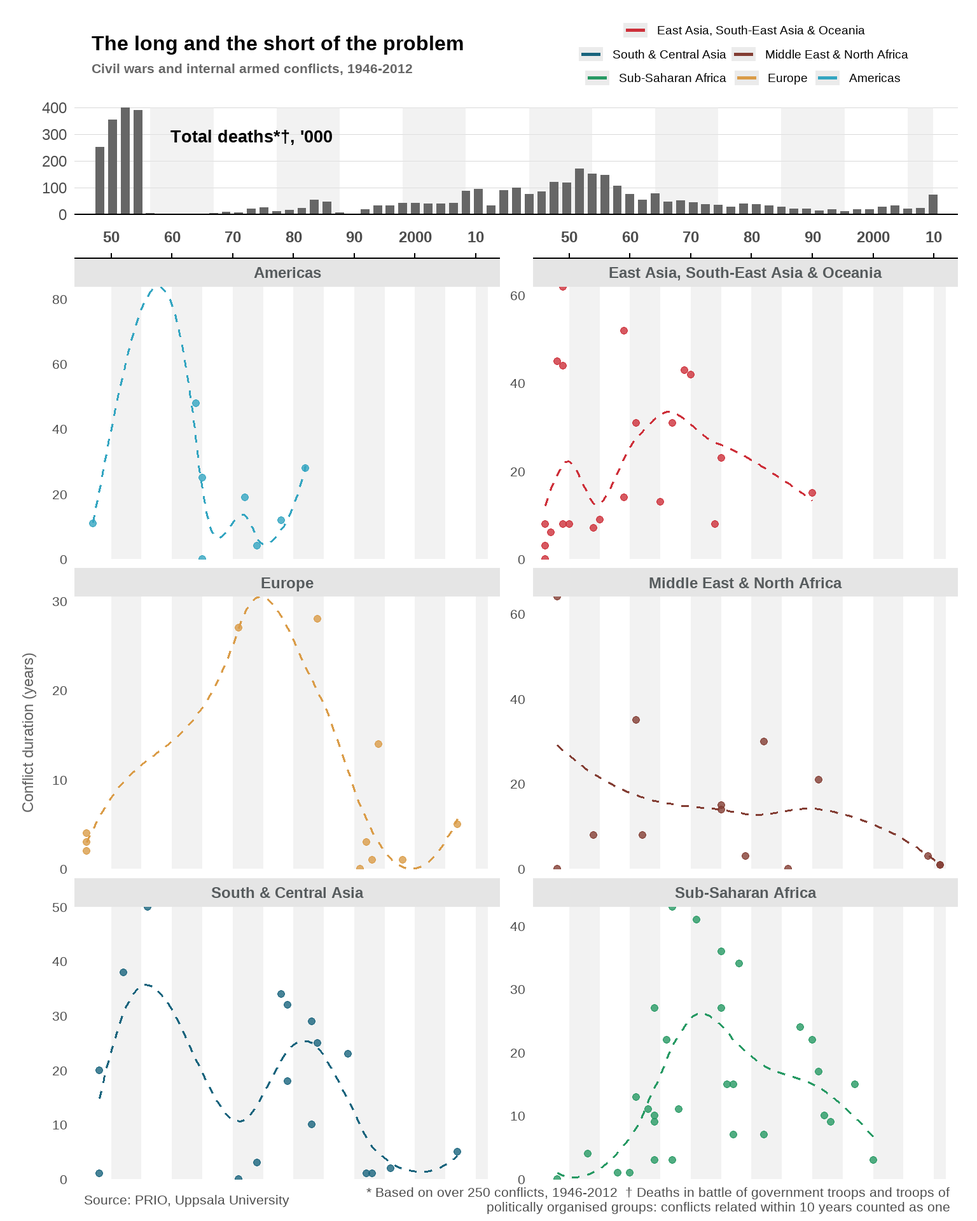
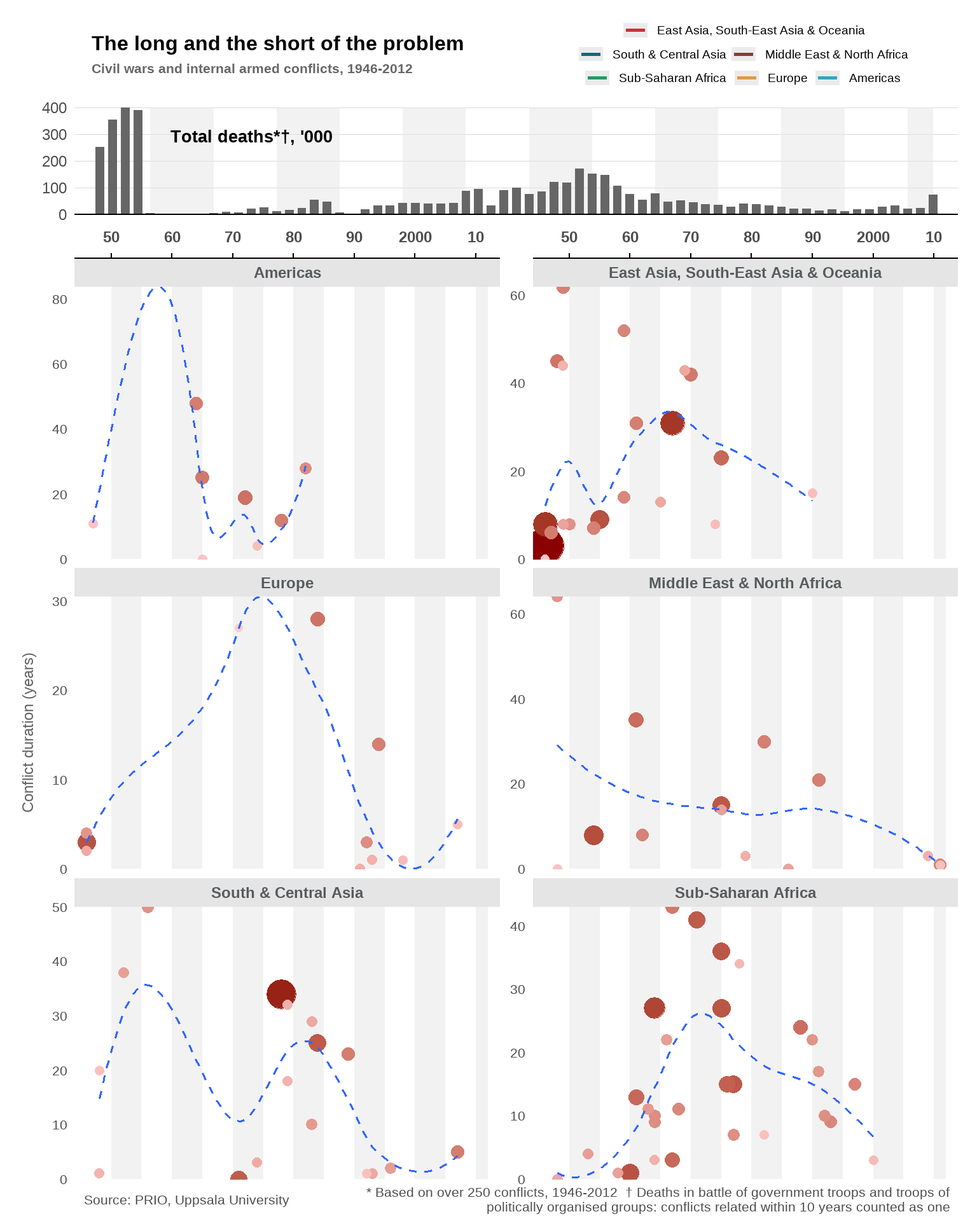
Added new suggestion for improvement

diff --git a/_projects/2025/100570811/100570811.html b/_projects/2025/100570811/100570811.html
@@ -95,8 +95,8 @@ code span.wa { color: #5e5e5e; font-style: italic; } /* Warning */
 
 
   <!--  https://schema.org/Article -->
-  <meta property="article:published" itemprop="datePublished" content="2025-12-15"/>
-  <meta property="article:created" itemprop="dateCreated" content="2025-12-15"/>
+  <meta property="article:published" itemprop="datePublished" content="2025-12-16"/>
+  <meta property="article:created" itemprop="dateCreated" content="2025-12-16"/>
   <meta name="article:author" content="Tone Varberg Sabri"/>
 
   <!--  https://developers.facebook.com/docs/sharing/webmasters#markup -->
@@ -114,12 +114,12 @@ code span.wa { color: #5e5e5e; font-style: italic; } /* Warning */
   <!--radix_placeholder_rmarkdown_metadata-->
 
   <script type="text/json" id="radix-rmarkdown-metadata">
-  {"type":"list","attributes":{"names":{"type":"character","attributes":{},"value":["title","description","categories","author","date","output"]}},"value":[{"type":"character","attributes":{},"value":["The long and the short of the problem"]},{"type":"character","attributes":{},"value":["Replication and improvement of the Economist's \ngraph on civil wars and internal armed conflicts from 1946 to 2012.\n"]},{"type":"character","attributes":{},"value":["2025"]},{"type":"list","attributes":{},"value":[{"type":"list","attributes":{"names":{"type":"character","attributes":{},"value":["name"]}},"value":[{"type":"character","attributes":{},"value":["Tone Varberg Sabri"]}]}]},{"type":"character","attributes":{},"value":["2025-12-15"]},{"type":"list","attributes":{"names":{"type":"character","attributes":{},"value":["distill::distill_article"]}},"value":[{"type":"list","attributes":{"names":{"type":"character","attributes":{},"value":["self_contained","toc"]}},"value":[{"type":"logical","attributes":{},"value":[false]},{"type":"logical","attributes":{},"value":[true]}]}]}]}
+  {"type":"list","attributes":{"names":{"type":"character","attributes":{},"value":["title","description","categories","author","date","output"]}},"value":[{"type":"character","attributes":{},"value":["The long and the short of the problem"]},{"type":"character","attributes":{},"value":["Replication and improvement of the Economist's \ngraph on civil wars and internal armed conflicts from 1946 to 2012.\n"]},{"type":"character","attributes":{},"value":["2025"]},{"type":"list","attributes":{},"value":[{"type":"list","attributes":{"names":{"type":"character","attributes":{},"value":["name"]}},"value":[{"type":"character","attributes":{},"value":["Tone Varberg Sabri"]}]}]},{"type":"character","attributes":{},"value":["2025-12-16"]},{"type":"list","attributes":{"names":{"type":"character","attributes":{},"value":["distill::distill_article"]}},"value":[{"type":"list","attributes":{"names":{"type":"character","attributes":{},"value":["self_contained","toc"]}},"value":[{"type":"logical","attributes":{},"value":[false]},{"type":"logical","attributes":{},"value":[true]}]}]}]}
   </script>
   <!--/radix_placeholder_rmarkdown_metadata-->
   
   <script type="text/json" id="radix-resource-manifest">
-  {"type":"character","attributes":{},"value":["100570811_files/anchor-4.2.2/anchor.min.js","100570811_files/bowser-1.9.3/bowser.min.js","100570811_files/distill-2.2.21/template.v2.js","100570811_files/figure-html5/civilwar_annotation-1.png","100570811_files/figure-html5/civilwar_data-1.png","100570811_files/figure-html5/civilwar_themes-1.png","100570811_files/figure-html5/civilwars_cords&axes-1.png","100570811_files/figure-html5/combined_plot-1.png","100570811_files/figure-html5/deathplot_cords&axes-1.png","100570811_files/figure-html5/deathplot_data-1.png","100570811_files/figure-html5/deathplot_themes-1.png","100570811_files/figure-html5/improved_graph-1.png","100570811_files/header-attrs-2.30/header-attrs.js","100570811_files/jquery-3.6.0/jquery-3.6.0.js","100570811_files/jquery-3.6.0/jquery-3.6.0.min.js","100570811_files/jquery-3.6.0/jquery-3.6.0.min.map","100570811_files/popper-2.6.0/popper.min.js","100570811_files/tippy-6.2.7/tippy-bundle.umd.min.js","100570811_files/tippy-6.2.7/tippy-light-border.css","100570811_files/tippy-6.2.7/tippy.css","100570811_files/tippy-6.2.7/tippy.umd.min.js","100570811_files/webcomponents-2.0.0/webcomponents.js","BattleDeaths_v25_1_conf.csv","original_graph.png","PRIO Battle Deaths Dataset 3.0.xls"]}
+  {"type":"character","attributes":{},"value":["100570811_files/anchor-4.2.2/anchor.min.js","100570811_files/bowser-1.9.3/bowser.min.js","100570811_files/distill-2.2.21/template.v2.js","100570811_files/figure-html5/civilwar_annotation-1.png","100570811_files/figure-html5/civilwar_data-1.png","100570811_files/figure-html5/civilwar_themes-1.png","100570811_files/figure-html5/civilwars_cords&axes-1.png","100570811_files/figure-html5/combined_plot-1.png","100570811_files/figure-html5/deathplot_cords&axes-1.png","100570811_files/figure-html5/deathplot_data-1.png","100570811_files/figure-html5/deathplot_themes-1.png","100570811_files/figure-html5/improved_graph-1.png","100570811_files/figure-html5/second_improvement-1.png","100570811_files/header-attrs-2.30/header-attrs.js","100570811_files/jquery-3.6.0/jquery-3.6.0.js","100570811_files/jquery-3.6.0/jquery-3.6.0.min.js","100570811_files/jquery-3.6.0/jquery-3.6.0.min.map","100570811_files/popper-2.6.0/popper.min.js","100570811_files/tippy-6.2.7/tippy-bundle.umd.min.js","100570811_files/tippy-6.2.7/tippy-light-border.css","100570811_files/tippy-6.2.7/tippy.css","100570811_files/tippy-6.2.7/tippy.umd.min.js","100570811_files/webcomponents-2.0.0/webcomponents.js","BattleDeaths_v25_1_conf.csv","original_graph.png","PRIO Battle Deaths Dataset 3.0.xls"]}
   </script>
   <!--radix_placeholder_navigation_in_header-->
   <!--/radix_placeholder_navigation_in_header-->
@@ -1522,7 +1522,7 @@ code span.wa { color: #5e5e5e; font-style: italic; } /* Warning */
 <!--radix_placeholder_front_matter-->
 
 <script id="distill-front-matter" type="text/json">
-{"title":"The long and the short of the problem","description":"Replication and improvement of the Economist's \ngraph on civil wars and internal armed conflicts from 1946 to 2012.","authors":[{"author":"Tone Varberg Sabri","authorURL":"#","affiliation":"&nbsp;","affiliationURL":"#","orcidID":""}],"publishedDate":"2025-12-15T00:00:00.000+01:00","citationText":"Sabri, 2025"}
+{"title":"The long and the short of the problem","description":"Replication and improvement of the Economist's \ngraph on civil wars and internal armed conflicts from 1946 to 2012.","authors":[{"author":"Tone Varberg Sabri","authorURL":"#","affiliation":"&nbsp;","affiliationURL":"#","orcidID":""}],"publishedDate":"2025-12-16T00:00:00.000+01:00","citationText":"Sabri, 2025"}
 </script>
 
 <!--/radix_placeholder_front_matter-->
@@ -1547,7 +1547,7 @@ graph on civil wars and internal armed conflicts from 1946 to 2012.</p></p>
   
   Tone Varberg Sabri
   
-<br/>2025-12-15
+<br/>2025-12-16
 </div>
 
 <div class="d-article">
@@ -2181,23 +2181,18 @@ graph on civil wars and internal armed conflicts from 1946 to 2012.</p></p>
 <span></span>
 <span><span class='va'>improved_civilwar_plot</span> <span class='op'>&lt;-</span> <span class='fu'><a href='https://ggplot2.tidyverse.org/reference/ggplot.html'>ggplot</a></span><span class='op'>(</span></span>
 <span>  <span class='va'>duration_data</span>,</span>
-<span>  <span class='fu'><a href='https://ggplot2.tidyverse.org/reference/aes.html'>aes</a></span><span class='op'>(</span>x <span class='op'>=</span> <span class='va'>start_year</span>, y <span class='op'>=</span> <span class='va'>duration</span>, size <span class='op'>=</span> <span class='va'>deaths_thousands</span><span class='op'>)</span></span>
+<span>  <span class='fu'><a href='https://ggplot2.tidyverse.org/reference/aes.html'>aes</a></span><span class='op'>(</span>x <span class='op'>=</span> <span class='va'>start_year</span>, y <span class='op'>=</span> <span class='va'>duration</span>, size <span class='op'>=</span> <span class='va'>deaths_thousands</span>, color <span class='op'>=</span> <span class='va'>deaths_thousands</span><span class='op'>)</span></span>
 <span><span class='op'>)</span> <span class='op'>+</span></span>
 <span>  </span>
 <span> </span>
 <span>  <span class='fu'>add_decade_shading</span><span class='op'>(</span><span class='op'>)</span> <span class='op'>+</span></span>
 <span>  </span>
-<span>  <span class='fu'><a href='https://ggplot2.tidyverse.org/reference/geom_point.html'>geom_point</a></span><span class='op'>(</span></span>
-<span>    <span class='fu'><a href='https://ggplot2.tidyverse.org/reference/aes.html'>aes</a></span><span class='op'>(</span>color <span class='op'>=</span> <span class='va'>region</span><span class='op'>)</span>,</span>
-<span>    size <span class='op'>=</span> <span class='fl'>1.8</span>,</span>
-<span>    alpha <span class='op'>=</span> <span class='fl'>0.8</span></span>
-<span>  <span class='op'>)</span> <span class='op'>+</span></span>
+<span>  <span class='fu'><a href='https://ggplot2.tidyverse.org/reference/geom_point.html'>geom_point</a></span><span class='op'>(</span><span class='op'>)</span> <span class='op'>+</span></span>
 <span><span class='fu'><a href='https://ggplot2.tidyverse.org/reference/geom_smooth.html'>geom_smooth</a></span><span class='op'>(</span></span>
 <span>    <span class='fu'><a href='https://ggplot2.tidyverse.org/reference/aes.html'>aes</a></span><span class='op'>(</span></span>
 <span>      x <span class='op'>=</span> <span class='va'>start_year</span>,</span>
 <span>      y <span class='op'>=</span> <span class='va'>duration</span>,</span>
-<span>      group <span class='op'>=</span> <span class='va'>region</span>,</span>
-<span>      color <span class='op'>=</span> <span class='va'>region</span></span>
+<span>      group <span class='op'>=</span> <span class='va'>region</span></span>
 <span>    <span class='op'>)</span>,</span>
 <span>    method <span class='op'>=</span> <span class='st'>"loess"</span>,</span>
 <span>    se <span class='op'>=</span> <span class='cn'>FALSE</span>,</span>
@@ -2226,7 +2221,13 @@ graph on civil wars and internal armed conflicts from 1946 to 2012.</p></p>
 <span>    expand <span class='op'>=</span> <span class='cn'>FALSE</span></span>
 <span>  <span class='op'>)</span> <span class='op'>+</span></span>
 <span>  </span>
-<span>  <span class='fu'><a href='https://ggplot2.tidyverse.org/reference/scale_manual.html'>scale_color_manual</a></span><span class='op'>(</span>values <span class='op'>=</span> <span class='va'>region_colors</span><span class='op'>)</span> <span class='op'>+</span></span>
+<span>  <span class='fu'><a href='https://ggplot2.tidyverse.org/reference/scale_gradient.html'>scale_color_gradient</a></span><span class='op'>(</span></span>
+<span>    low <span class='op'>=</span> <span class='st'>"#ffcccc"</span>,</span>
+<span>    high <span class='op'>=</span> <span class='st'>"#8B0000"</span>,</span>
+<span>    name <span class='op'>=</span> <span class='st'>"Deaths\n(thousands)"</span>,</span>
+<span>    trans <span class='op'>=</span> <span class='st'>"log10"</span>,</span>
+<span>    labels <span class='op'>=</span> <span class='fu'>scales</span><span class='fu'>::</span><span class='va'><a href='https://scales.r-lib.org/reference/comma.html'>comma</a></span></span>
+<span>  <span class='op'>)</span> <span class='op'>+</span></span>
 <span>  <span class='fu'><a href='https://ggplot2.tidyverse.org/reference/scale_size.html'>scale_size_continuous</a></span><span class='op'>(</span></span>
 <span>  range <span class='op'>=</span> <span class='fu'><a href='https://rdrr.io/r/base/c.html'>c</a></span><span class='op'>(</span><span class='fl'>2</span>, <span class='fl'>10</span><span class='op'>)</span>,</span>
 <span>  breaks <span class='op'>=</span> <span class='fu'><a href='https://rdrr.io/r/base/c.html'>c</a></span><span class='op'>(</span><span class='fl'>10</span>, <span class='fl'>100</span>, <span class='fl'>1000</span><span class='op'>)</span>,</span>
@@ -2262,6 +2263,7 @@ graph on civil wars and internal armed conflicts from 1946 to 2012.</p></p>
 <span>    legend.position <span class='op'>=</span> <span class='st'>"none"</span>,</span>
 <span>    plot.margin <span class='op'>=</span> <span class='fu'><a href='https://ggplot2.tidyverse.org/reference/element.html'>margin</a></span><span class='op'>(</span>t <span class='op'>=</span> <span class='fl'>5</span>, r <span class='op'>=</span> <span class='fl'>5</span>, b <span class='op'>=</span> <span class='fl'>5</span>, l <span class='op'>=</span> <span class='fl'>8</span><span class='op'>)</span></span>
 <span>  <span class='op'>)</span></span>
+<span></span>
 <span><span class='va'>improved_finishedplot</span> <span class='op'>&lt;-</span> <span class='op'>(</span><span class='fu'><a href='https://patchwork.data-imaginist.com/reference/wrap_elements.html'>wrap_elements</a></span><span class='op'>(</span><span class='va'>title_plot</span><span class='op'>)</span> <span class='op'>|</span> <span class='fu'><a href='https://patchwork.data-imaginist.com/reference/wrap_elements.html'>wrap_elements</a></span><span class='op'>(</span><span class='va'>custom_legend</span><span class='op'>)</span><span class='op'>)</span> <span class='op'>/</span></span>
 <span>  <span class='va'>deathplot</span> <span class='op'>/</span></span>
 <span>  <span class='va'>improved_civilwar_plot</span> <span class='op'>/</span></span>
@@ -2274,6 +2276,101 @@ graph on civil wars and internal armed conflicts from 1946 to 2012.</p></p>
 <span><span class='fu'><a href='https://rdrr.io/r/base/print.html'>print</a></span><span class='op'>(</span><span class='va'>improved_finishedplot</span><span class='op'>)</span></span></code></pre>
 </div>
 <p><img src="100570811_files/figure-html5/improved_graph-1.png" width="100%" style="display: block; margin: auto;" /></p>
+</div>
+<p>Here is another suggestion for improvement. I think this can look good when the deadliest conflicts get labels as well as the longest ones, can also label the peaks for the total deaths.</p>
+<div class="layout-chunk" data-layout="l-body">
+<div class="sourceCode">
+<pre class="sourceCode r"><code class="sourceCode r"><span><span class='va'>Second_improvement</span> <span class='op'>&lt;-</span> <span class='fu'><a href='https://ggplot2.tidyverse.org/reference/ggplot.html'>ggplot</a></span><span class='op'>(</span><span class='op'>)</span> <span class='op'>+</span></span>
+<span>  <span class='co'># Line for total deaths per year</span></span>
+<span>  <span class='fu'><a href='https://ggplot2.tidyverse.org/reference/geom_ribbon.html'>geom_area</a></span><span class='op'>(</span>data <span class='op'>=</span> <span class='va'>deathtotal</span>,</span>
+<span>            <span class='fu'><a href='https://ggplot2.tidyverse.org/reference/aes.html'>aes</a></span><span class='op'>(</span>x <span class='op'>=</span> <span class='va'>year</span>, y <span class='op'>=</span> <span class='va'>totaldeaths</span><span class='op'>)</span>,</span>
+<span>            fill <span class='op'>=</span> <span class='st'>"gray85"</span>, </span>
+<span>            alpha <span class='op'>=</span> <span class='fl'>0.3</span><span class='op'>)</span>    <span class='op'>+</span>  </span>
+<span></span>
+<span><span class='fu'><a href='https://ggplot2.tidyverse.org/reference/geom_path.html'>geom_line</a></span><span class='op'>(</span>data <span class='op'>=</span> <span class='va'>deathtotal</span>,</span>
+<span>          <span class='fu'><a href='https://ggplot2.tidyverse.org/reference/aes.html'>aes</a></span><span class='op'>(</span>x <span class='op'>=</span> <span class='va'>year</span>, y <span class='op'>=</span> <span class='va'>totaldeaths</span><span class='op'>)</span>,</span>
+<span>          color <span class='op'>=</span> <span class='st'>"gray60"</span>, </span>
+<span>          linewidth <span class='op'>=</span> <span class='fl'>0.8</span>,</span>
+<span>          alpha <span class='op'>=</span> <span class='fl'>0.6</span><span class='op'>)</span> <span class='op'>+</span></span>
+<span>  </span>
+<span>  <span class='co'># Points for individual conflicts</span></span>
+<span>  <span class='fu'><a href='https://ggplot2.tidyverse.org/reference/geom_point.html'>geom_point</a></span><span class='op'>(</span>data <span class='op'>=</span> <span class='va'>duration_data</span>,</span>
+<span>             <span class='fu'><a href='https://ggplot2.tidyverse.org/reference/aes.html'>aes</a></span><span class='op'>(</span>x <span class='op'>=</span> <span class='va'>start_year</span>, y <span class='op'>=</span> <span class='va'>deaths_thousands</span>, </span>
+<span>                 size <span class='op'>=</span> <span class='va'>duration</span>, colour <span class='op'>=</span> <span class='va'>duration</span><span class='op'>)</span>,</span>
+<span>             alpha <span class='op'>=</span> <span class='fl'>0.7</span><span class='op'>)</span> <span class='op'>+</span></span>
+<span>  </span>
+<span>  <span class='fu'><a href='https://ggplot2.tidyverse.org/reference/scale_viridis.html'>scale_colour_viridis_c</a></span><span class='op'>(</span></span>
+<span>    option <span class='op'>=</span> <span class='st'>"turbo"</span>,</span>
+<span>    name <span class='op'>=</span> <span class='st'>"Duration (years)"</span>,</span>
+<span>    breaks <span class='op'>=</span> <span class='fu'><a href='https://rdrr.io/r/base/c.html'>c</a></span><span class='op'>(</span><span class='fl'>0</span>, <span class='fl'>20</span>, <span class='fl'>40</span>, <span class='fl'>60</span><span class='op'>)</span>,</span>
+<span>    guide <span class='op'>=</span> <span class='fu'><a href='https://ggplot2.tidyverse.org/reference/guide_colourbar.html'>guide_colorbar</a></span><span class='op'>(</span></span>
+<span>      barheight <span class='op'>=</span> <span class='fl'>1</span>,           <span class='co'># Horizontal legend</span></span>
+<span>      barwidth <span class='op'>=</span> <span class='fl'>8</span>,</span>
+<span>      title.position <span class='op'>=</span> <span class='st'>"left"</span>,</span>
+<span>      title.hjust <span class='op'>=</span> <span class='fl'>0.5</span></span>
+<span>    <span class='op'>)</span></span>
+<span>  <span class='op'>)</span> <span class='op'>+</span></span>
+<span>  <span class='fu'><a href='https://ggplot2.tidyverse.org/reference/scale_size.html'>scale_size_continuous</a></span><span class='op'>(</span>range <span class='op'>=</span> <span class='fu'><a href='https://rdrr.io/r/base/c.html'>c</a></span><span class='op'>(</span><span class='fl'>2</span>, <span class='fl'>15</span><span class='op'>)</span>, guide <span class='op'>=</span> <span class='st'>"none"</span><span class='op'>)</span> <span class='op'>+</span></span>
+<span>  <span class='fu'><a href='https://ggplot2.tidyverse.org/reference/scale_continuous.html'>scale_y_log10</a></span><span class='op'>(</span></span>
+<span>    labels <span class='op'>=</span> <span class='fu'>scales</span><span class='fu'>::</span><span class='va'><a href='https://scales.r-lib.org/reference/comma.html'>comma</a></span>,</span>
+<span>    breaks <span class='op'>=</span> <span class='fu'><a href='https://rdrr.io/r/base/c.html'>c</a></span><span class='op'>(</span><span class='fl'>1</span>, <span class='fl'>10</span>, <span class='fl'>100</span>, <span class='fl'>400</span><span class='op'>)</span></span>
+<span>  <span class='op'>)</span> <span class='op'>+</span></span>
+<span>  <span class='fu'><a href='https://ggplot2.tidyverse.org/reference/scale_continuous.html'>scale_x_continuous</a></span><span class='op'>(</span></span>
+<span>    breaks <span class='op'>=</span> <span class='fl'>1946</span><span class='op'>:</span><span class='fl'>2012</span>,</span>
+<span>    labels <span class='op'>=</span> <span class='fu'><a href='https://rdrr.io/r/base/c.html'>c</a></span><span class='op'>(</span><span class='st'>"1946"</span>,<span class='st'>""</span>, <span class='st'>""</span>, <span class='st'>""</span>, <span class='st'>"50"</span>, <span class='st'>""</span>, <span class='st'>""</span>, <span class='st'>""</span>, <span class='st'>""</span>, <span class='st'>"55"</span>,<span class='st'>""</span>,<span class='st'>""</span>,<span class='st'>""</span>,<span class='st'>""</span>, <span class='st'>"60"</span>, <span class='st'>""</span>,<span class='st'>""</span>,<span class='st'>""</span>,<span class='st'>""</span>, <span class='st'>"65"</span>,<span class='st'>""</span>,<span class='st'>""</span>,<span class='st'>""</span>,<span class='st'>""</span>, <span class='st'>"70"</span>,<span class='st'>""</span>,<span class='st'>""</span>,<span class='st'>""</span>,<span class='st'>""</span>, <span class='st'>"75"</span>,<span class='st'>""</span>,<span class='st'>""</span>,<span class='st'>""</span>,<span class='st'>""</span>, <span class='st'>"80"</span>,<span class='st'>""</span>,<span class='st'>""</span>,<span class='st'>""</span>,<span class='st'>""</span>, <span class='st'>"85"</span>,</span>
+<span>               <span class='st'>""</span>,<span class='st'>""</span>,<span class='st'>""</span>,<span class='st'>""</span>,<span class='st'>"90"</span>,<span class='st'>""</span>,<span class='st'>""</span>,<span class='st'>""</span>,<span class='st'>""</span>, <span class='st'>"95"</span>,<span class='st'>""</span>,<span class='st'>""</span>,<span class='st'>""</span>,<span class='st'>""</span>, <span class='st'>"2000"</span>,<span class='st'>""</span>,<span class='st'>""</span>,<span class='st'>""</span>,<span class='st'>""</span>, <span class='st'>"05"</span>,<span class='st'>""</span>,<span class='st'>""</span>,<span class='st'>""</span>,<span class='st'>""</span>, <span class='st'>"10"</span>, <span class='st'>""</span>, <span class='st'>"12"</span><span class='op'>)</span></span>
+<span>    </span>
+<span>  <span class='op'>)</span> <span class='op'>+</span></span>
+<span>  <span class='fu'><a href='https://ggplot2.tidyverse.org/reference/coord_cartesian.html'>coord_cartesian</a></span><span class='op'>(</span>xlim <span class='op'>=</span> <span class='fu'><a href='https://rdrr.io/r/base/c.html'>c</a></span><span class='op'>(</span><span class='fl'>1944</span>, <span class='fl'>2014</span><span class='op'>)</span>, ylim <span class='op'>=</span> <span class='fu'><a href='https://rdrr.io/r/base/c.html'>c</a></span><span class='op'>(</span><span class='op'>-</span><span class='fl'>4</span>, <span class='fl'>420</span><span class='op'>)</span>, expand <span class='op'>=</span> <span class='cn'>FALSE</span><span class='op'>)</span> <span class='op'>+</span></span>
+<span>  </span>
+<span>  <span class='fu'><a href='https://ggplot2.tidyverse.org/reference/facet_wrap.html'>facet_wrap</a></span><span class='op'>(</span><span class='op'>~</span><span class='va'>region</span>, ncol <span class='op'>=</span> <span class='fl'>2</span><span class='op'>)</span> <span class='op'>+</span></span>
+<span>  </span>
+<span>  <span class='fu'><a href='https://ggplot2.tidyverse.org/reference/labs.html'>labs</a></span><span class='op'>(</span></span>
+<span>    title <span class='op'>=</span> <span class='st'>"Civil War Duration, Deadliness, and Total Annual Deaths"</span>,</span>
+<span>    subtitle <span class='op'>=</span> <span class='st'>"Gray area shows total deaths per year; colored points show individual conflicts"</span>,</span>
+<span>    x <span class='op'>=</span> <span class='st'>"Year"</span>,</span>
+<span>    y <span class='op'>=</span> <span class='st'>"Deaths"</span></span>
+<span>  <span class='op'>)</span> <span class='op'>+</span></span>
+<span>  <span class='fu'><a href='https://ggplot2.tidyverse.org/reference/ggtheme.html'>theme_minimal</a></span><span class='op'>(</span><span class='op'>)</span> <span class='op'>+</span></span>
+<span>  <span class='fu'><a href='https://ggplot2.tidyverse.org/reference/theme.html'>theme</a></span><span class='op'>(</span></span>
+<span>    text <span class='op'>=</span> <span class='fu'><a href='https://ggplot2.tidyverse.org/reference/element.html'>element_text</a></span><span class='op'>(</span>family <span class='op'>=</span> <span class='st'>"sans"</span><span class='op'>)</span>,</span>
+<span>    </span>
+<span>    panel.background <span class='op'>=</span> <span class='fu'><a href='https://ggplot2.tidyverse.org/reference/element.html'>element_blank</a></span><span class='op'>(</span><span class='op'>)</span>,</span>
+<span>    plot.background <span class='op'>=</span> <span class='fu'><a href='https://ggplot2.tidyverse.org/reference/element.html'>element_blank</a></span><span class='op'>(</span><span class='op'>)</span>,</span>
+<span>    </span>
+<span>    panel.grid.major <span class='op'>=</span> <span class='fu'><a href='https://ggplot2.tidyverse.org/reference/element.html'>element_blank</a></span><span class='op'>(</span><span class='op'>)</span>,</span>
+<span>    panel.grid.minor <span class='op'>=</span> <span class='fu'><a href='https://ggplot2.tidyverse.org/reference/element.html'>element_blank</a></span><span class='op'>(</span><span class='op'>)</span>,</span>
+<span>    </span>
+<span>    </span>
+<span>    strip.background <span class='op'>=</span> <span class='fu'><a href='https://ggplot2.tidyverse.org/reference/element.html'>element_blank</a></span><span class='op'>(</span><span class='op'>)</span>, </span>
+<span>    strip.text <span class='op'>=</span> <span class='fu'><a href='https://ggplot2.tidyverse.org/reference/element.html'>element_text</a></span><span class='op'>(</span></span>
+<span>      color <span class='op'>=</span> <span class='st'>"gray20"</span>, </span>
+<span>      face <span class='op'>=</span> <span class='st'>"bold"</span>, </span>
+<span>      size <span class='op'>=</span> <span class='fl'>11</span>,</span>
+<span>      hjust <span class='op'>=</span> <span class='fl'>0</span>,          </span>
+<span>      margin <span class='op'>=</span> <span class='fu'><a href='https://ggplot2.tidyverse.org/reference/element.html'>margin</a></span><span class='op'>(</span>b <span class='op'>=</span> <span class='fl'>5</span><span class='op'>)</span></span>
+<span>    <span class='op'>)</span>,</span>
+<span>    </span>
+<span>    plot.title <span class='op'>=</span> <span class='fu'><a href='https://ggplot2.tidyverse.org/reference/element.html'>element_text</a></span><span class='op'>(</span>size <span class='op'>=</span> <span class='fl'>16</span>, face <span class='op'>=</span> <span class='st'>"bold"</span>, color <span class='op'>=</span> <span class='st'>"gray20"</span>, margin <span class='op'>=</span> <span class='fu'><a href='https://ggplot2.tidyverse.org/reference/element.html'>margin</a></span><span class='op'>(</span>b <span class='op'>=</span> <span class='fl'>5</span><span class='op'>)</span><span class='op'>)</span>,</span>
+<span>    plot.subtitle <span class='op'>=</span> <span class='fu'><a href='https://ggplot2.tidyverse.org/reference/element.html'>element_text</a></span><span class='op'>(</span>size <span class='op'>=</span> <span class='fl'>10</span>, color <span class='op'>=</span> <span class='st'>"gray40"</span>, margin <span class='op'>=</span> <span class='fu'><a href='https://ggplot2.tidyverse.org/reference/element.html'>margin</a></span><span class='op'>(</span>b <span class='op'>=</span> <span class='fl'>10</span><span class='op'>)</span><span class='op'>)</span>,</span>
+<span>    </span>
+<span>    axis.title <span class='op'>=</span> <span class='fu'><a href='https://ggplot2.tidyverse.org/reference/element.html'>element_text</a></span><span class='op'>(</span>color <span class='op'>=</span> <span class='st'>"gray40"</span>, size <span class='op'>=</span> <span class='fl'>11</span>, face <span class='op'>=</span> <span class='st'>"bold"</span><span class='op'>)</span>,</span>
+<span>    axis.text <span class='op'>=</span> <span class='fu'><a href='https://ggplot2.tidyverse.org/reference/element.html'>element_text</a></span><span class='op'>(</span>color <span class='op'>=</span> <span class='st'>"gray40"</span>, size <span class='op'>=</span> <span class='fl'>9</span><span class='op'>)</span>,</span>
+<span>    </span>
+<span>    legend.position <span class='op'>=</span> <span class='st'>"top"</span>,</span>
+<span>    legend.justification <span class='op'>=</span> <span class='st'>"right"</span>,</span>
+<span>    legend.direction <span class='op'>=</span> <span class='st'>"horizontal"</span>,</span>
+<span>    legend.title <span class='op'>=</span> <span class='fu'><a href='https://ggplot2.tidyverse.org/reference/element.html'>element_text</a></span><span class='op'>(</span>size <span class='op'>=</span> <span class='fl'>9</span>, face <span class='op'>=</span> <span class='st'>"bold"</span><span class='op'>)</span>,</span>
+<span>    legend.text <span class='op'>=</span> <span class='fu'><a href='https://ggplot2.tidyverse.org/reference/element.html'>element_text</a></span><span class='op'>(</span>size <span class='op'>=</span> <span class='fl'>8</span><span class='op'>)</span>,</span>
+<span>    legend.background <span class='op'>=</span> <span class='fu'><a href='https://ggplot2.tidyverse.org/reference/element.html'>element_blank</a></span><span class='op'>(</span><span class='op'>)</span>,</span>
+<span>    legend.box.spacing <span class='op'>=</span> <span class='fu'><a href='https://rdrr.io/r/grid/unit.html'>unit</a></span><span class='op'>(</span><span class='fl'>0</span>, <span class='st'>"pt"</span><span class='op'>)</span>,</span>
+<span>    </span>
+<span>    plot.margin <span class='op'>=</span> <span class='fu'><a href='https://ggplot2.tidyverse.org/reference/element.html'>margin</a></span><span class='op'>(</span>t <span class='op'>=</span> <span class='fl'>15</span>, r <span class='op'>=</span> <span class='fl'>15</span>, b <span class='op'>=</span> <span class='fl'>10</span>, l <span class='op'>=</span> <span class='fl'>10</span><span class='op'>)</span></span>
+<span>  <span class='op'>)</span></span>
+<span></span>
+<span><span class='va'>Second_improvement</span></span></code></pre>
+</div>
+<p><img src="100570811_files/figure-html5/second_improvement-1.png" width="100%" style="display: block; margin: auto;" /></p>
 </div>
 <h2 id="conclusion">Conclusion</h2>
 <p>Distill is a publication format for scientific and technical writing, native to the web.</p>
